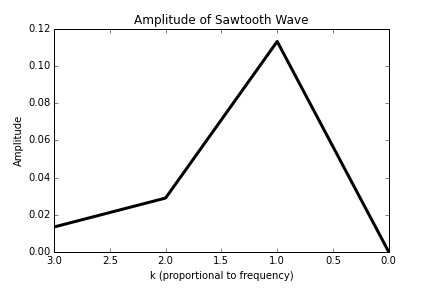
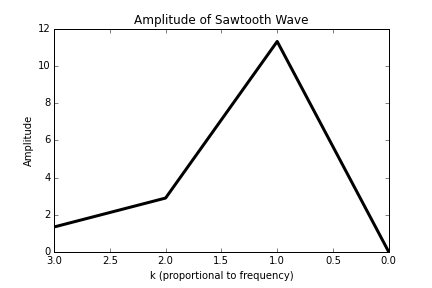
Final Project

diff --git a/week05/ex02.py b/week05/ex02.py
@@ -28,7 +28,7 @@ def dft(y):
     for n in range(N//2+1):
         
         for k in range(N):
-            value[n] += y[k]*np.exp(-2j*np.pi*n*k/N)/10
+            value[n] += y[k]*np.exp(-2j*np.pi*n*k/N)
             
     return value
 
